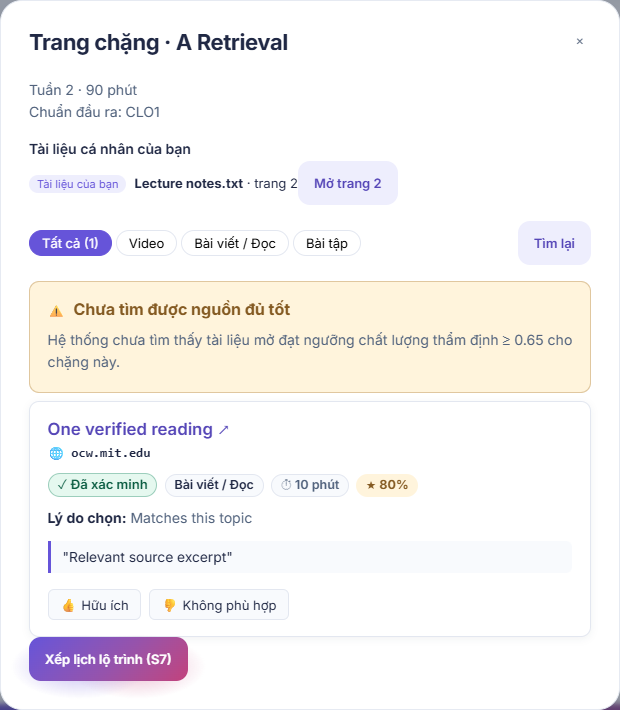
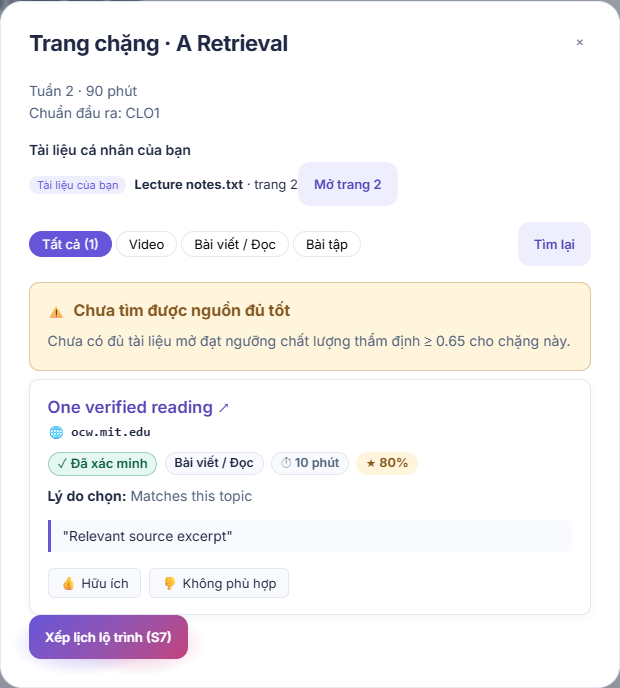
fix(ui): clarify partial source availability

diff --git a/ui/src/components/VerifiedSourceCard.tsx b/ui/src/components/VerifiedSourceCard.tsx
@@ -278,8 +278,8 @@ export function InsufficientSourcesNotice({
         <h4 className="vsc-insufficient-title">Chưa tìm được nguồn đủ tốt</h4>
       </div>
       <p className="vsc-insufficient-desc">
-        Hệ thống chưa tìm thấy tài liệu mở đạt ngưỡng chất lượng thẩm định ≥
-        0.65 cho chặng này.
+        Chưa có đủ tài liệu mở đạt ngưỡng chất lượng thẩm định ≥ 0.65 cho chặng
+        này.
       </p>
       {onRetry && (
         <div>

diff --git a/ui/src/components/VerifiedSourceCard.test.tsx b/ui/src/components/VerifiedSourceCard.test.tsx
@@ -106,6 +106,7 @@ describe("VerifiedSourceCard component (Issue #104, #58, #94)", () => {
     render(<InsufficientSourcesNotice onRetry={retrySpy} />);
 
     expect(screen.getByText("Chưa tìm được nguồn đủ tốt")).toBeTruthy();
+    expect(screen.getByText(/Chưa có đủ tài liệu mở/)).toBeTruthy();
     expect(
       screen.getByText(/ngưỡng chất lượng thẩm định ≥ 0.65/i),
     ).toBeTruthy();

diff --git a/ui/README.md b/ui/README.md
@@ -105,7 +105,7 @@ For interactive course knowledge graph visualization (`GraphCanvas`), we evaluat
 
 The implementation keeps the existing native Canvas renderer and force engine, so no graph dependency is added. Cytoscape.js and react-force-graph-2d provide more built-in graph features; d3-force provides a reusable simulation, but each would require an integration and a measured bundle comparison. The previous library size/FPS estimates were not benchmarks and have been removed.
 
-Local verification of the integrated #108/#110 branch measured **50.5 FPS (week)** and **54.4 FPS (force)** while panning a synthetic graph with 300 nodes and 299 edges in headless Chrome, without CPU throttling. This is a development-machine sample, not proof of performance on a mid-range laptop. Main JavaScript gzip size was **121.89 KB**, compared with **106.53 KB** for pre-graph main (`350224d`) using the same installed toolchain: **+15.36 KB**. CSS gzip increased from 13.64 KB to 16.15 KB. Font assets were unchanged.
+Local verification of the integrated #108/#110 branch measured **50.5 FPS (week)** and **54.4 FPS (force)** while panning a synthetic graph with 300 nodes and 299 edges in headless Chrome, without CPU throttling. This is a development-machine sample, not proof of performance on a mid-range laptop. Main JavaScript gzip size was **121.88 KB**, compared with **106.53 KB** for pre-graph main (`350224d`) using the same installed toolchain: **+15.35 KB**. CSS gzip increased from 13.64 KB to 16.15 KB. Font assets were unchanged.
 
 The force simulation pauses during background panning and resumes on release; rendering and viewport interaction continue every frame. The performance test is opt-in so concurrent browser suites do not distort it:
 

diff --git a/docs/notes/uiux/GRAPH_108_110_VERIFICATION.md b/docs/notes/uiux/GRAPH_108_110_VERIFICATION.md
@@ -26,7 +26,7 @@ This follow-up retains Thinh's #149 and #150 contributions. Both original PRs we
 - Desktop/mobile browser checks cover search to panel, milestone coverage and prerequisites, CLO/verified filters, URL restoration after reload, local API calls, saved pinned positions, touch pinch, edge add/remove after reload, and scoped axe checks (no serious/critical violations).
 - API browser checks use clearly identified intercepted fixtures. They verify UI/API contracts and reload state, not a production account or database. No backend code changed.
 - Separate benchmark: 300 nodes, 299 prerequisite edges; week pan 50.5 FPS, force pan 54.4 FPS in local headless Chrome without CPU throttling. Force simulation pauses while background panning; canvas rendering continues each frame.
-- Production build passes TypeScript and Vite. Main JS gzip: 121.89 KB versus 106.53 KB on pre-graph main `350224d` with the same installed toolchain (+15.36 KB). CSS: 16.15 KB versus 13.64 KB. No runtime dependency added.
+- Production build passes TypeScript and Vite. Main JS gzip: 121.88 KB versus 106.53 KB on pre-graph main `350224d` with the same installed toolchain (+15.35 KB). CSS: 16.15 KB versus 13.64 KB. No runtime dependency added.
 
 See `ui/README.md` for the benchmark command and existing run instructions.
 
